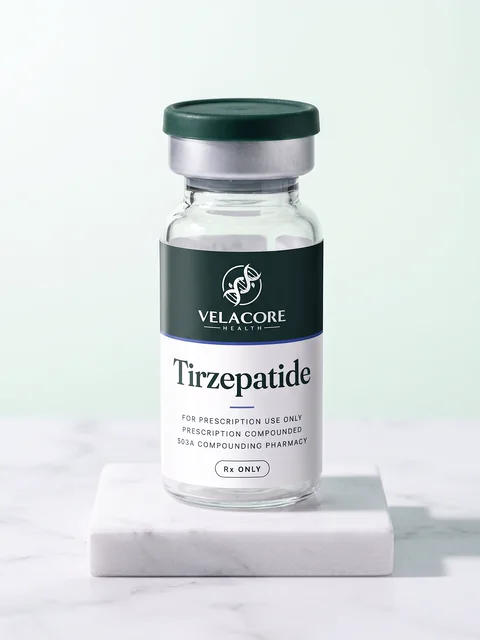
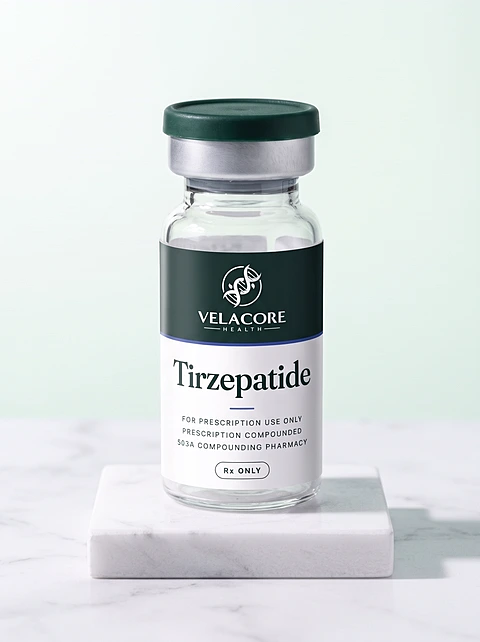
Sharper product photos: rebuilt from the full-size originals with light sharpening, 800 copies served on cards and tiles, cards zoom in on the vial

diff --git a/public/pricing.html b/public/pricing.html
@@ -63,7 +63,7 @@
     <section class="section pr-cards">
       <div class="container">
         <div class="section-head center"><h2>Programs and prices</h2><p class="section-sub">Pay month to month or choose a 12-week plan. A licensed clinician decides whether a program is appropriate for you.</p></div>
-        <div class="tgrid pr-grid"><article class="tcard" id="price-tirzepatide"><div class="tcard-media"><span class="tcard-cat">Weight</span><img class="tcard-photo" src="images/products/tirzepatide.webp" width="1200" height="1600" alt="Velacore Health Tirzepatide vial" loading="lazy" /></div><div class="tcard-body"><h3>Tirzepatide</h3><p class="tcard-mech">Injection, 5 dose levels. Ships every 4 weeks.</p><div class="tcard-meta"><span class="tcard-price">$199 <small>first month, then $279/mo</small></span><span class="tcard-rx">Rx only</span></div><p class="tcard-plan">12-week plan $249/mo, $747 up front.</p><a class="tcard-link" href="programs/tirzepatide.html">What the price includes</a><a href="start/tirzepatide.html" class="btn btn-primary btn-block btn-sm" data-start="tirzepatide">Start visit</a></div></article><article class="tcard" id="price-semaglutide"><div class="tcard-media"><span class="tcard-cat">Weight</span><img class="tcard-photo" src="images/products/semaglutide.webp" width="1200" height="1600" alt="Velacore Health Semaglutide vial" loading="lazy" /></div><div class="tcard-body"><h3>Semaglutide</h3><p class="tcard-mech">Injection or oral. Ships every 4 weeks.</p><div class="tcard-meta"><span class="tcard-price">$149 <small>first month, then $229/mo, injection</small></span><span class="tcard-rx">Rx only</span></div><p class="tcard-plan">12-week plan $199/mo, $597 up front. Oral form $259/mo.</p><a class="tcard-link" href="programs/semaglutide.html">What the price includes</a><a href="start/semaglutide.html" class="btn btn-primary btn-block btn-sm" data-start="semaglutide">Start visit</a></div></article><article class="tcard" id="price-microdosing"><div class="tcard-media"><span class="tcard-cat">Weight, entry tier</span><img class="tcard-photo" src="images/products/microdosing.webp" width="1200" height="1600" alt="Velacore Health Microdosing GLP-1 vial" loading="lazy" /></div><div class="tcard-body"><h3>Microdosing GLP-1</h3><p class="tcard-mech">Oral or injection, 7 formulations. Ships every 4 weeks.</p><div class="tcard-meta"><span class="tcard-price">$129 <small>first month, then $179/mo</small></span><span class="tcard-rx">Rx only</span></div><p class="tcard-plan">12-week plan $159/mo, $477 up front.</p><a class="tcard-link" href="programs/microdosing.html">What the price includes</a><a href="start/microdosing.html" class="btn btn-primary btn-block btn-sm" data-start="microdosing">Start visit</a></div></article><article class="tcard" id="price-nad"><div class="tcard-media"><span class="tcard-cat">Vitality</span><img class="tcard-photo" src="images/products/nad.webp" width="1200" height="1600" alt="Velacore Health NAD+ vial" loading="lazy" /></div><div class="tcard-body"><h3>NAD+</h3><p class="tcard-mech">Injection, nasal or oral. Ships every 4 weeks.</p><div class="tcard-meta"><span class="tcard-price">$129 <small>first month, then $199/mo</small></span><span class="tcard-rx">Rx only</span></div><p class="tcard-plan">12-week plan $169/mo, $507 up front.</p><a class="tcard-link" href="programs/nad.html">What the price includes</a><a href="start/nad.html" class="btn btn-primary btn-block btn-sm" data-start="nad">Start visit</a></div></article><article class="tcard" id="price-glutathione"><div class="tcard-media"><span class="tcard-cat">Vitality</span><img class="tcard-photo" src="images/products/glutathione.webp" width="1200" height="1600" alt="Velacore Health Glutathione vial" loading="lazy" /></div><div class="tcard-body"><h3>Glutathione</h3><p class="tcard-mech">Form set by your clinician. Ships every 4 weeks.</p><div class="tcard-meta"><span class="tcard-price">$129 <small>first month, then $199/mo</small></span><span class="tcard-rx">Rx only</span></div><p class="tcard-plan">12-week plan $169/mo, $507 up front.</p><a class="tcard-link" href="programs/glutathione.html">What the price includes</a><a href="start/glutathione.html" class="btn btn-primary btn-block btn-sm" data-start="glutathione">Start visit</a></div></article><article class="tcard" id="price-sermorelin"><div class="tcard-media"><span class="tcard-cat">Hormone support</span><img class="tcard-photo" src="images/products/sermorelin.webp" width="1200" height="1600" alt="Velacore Health Sermorelin vial" loading="lazy" /></div><div class="tcard-body"><h3>Sermorelin</h3><p class="tcard-mech">Injection. Ships every 4 weeks.</p><div class="tcard-meta"><span class="tcard-price">$129 <small>first month, then $199/mo</small></span><span class="tcard-rx">Rx only</span></div><p class="tcard-plan">12-week plan $169/mo, $507 up front.</p><a class="tcard-link" href="programs/sermorelin.html">What the price includes</a><a href="start/sermorelin.html" class="btn btn-primary btn-block btn-sm" data-start="sermorelin">Start visit</a></div></article></div>
+        <div class="tgrid pr-grid"><article class="tcard" id="price-tirzepatide"><div class="tcard-media"><span class="tcard-cat">Weight</span><img class="tcard-photo" src="images/products/tirzepatide.webp" srcset="images/products/tirzepatide-800.webp 800w, images/products/tirzepatide.webp 1200w" sizes="(max-width:700px) 92vw, 380px" width="1200" height="1600" alt="Velacore Health Tirzepatide vial" loading="lazy" /></div><div class="tcard-body"><h3>Tirzepatide</h3><p class="tcard-mech">Injection, 5 dose levels. Ships every 4 weeks.</p><div class="tcard-meta"><span class="tcard-price">$199 <small>first month, then $279/mo</small></span><span class="tcard-rx">Rx only</span></div><p class="tcard-plan">12-week plan $249/mo, $747 up front.</p><a class="tcard-link" href="programs/tirzepatide.html">What the price includes</a><a href="start/tirzepatide.html" class="btn btn-primary btn-block btn-sm" data-start="tirzepatide">Start visit</a></div></article><article class="tcard" id="price-semaglutide"><div class="tcard-media"><span class="tcard-cat">Weight</span><img class="tcard-photo" src="images/products/semaglutide.webp" srcset="images/products/semaglutide-800.webp 800w, images/products/semaglutide.webp 1200w" sizes="(max-width:700px) 92vw, 380px" width="1200" height="1600" alt="Velacore Health Semaglutide vial" loading="lazy" /></div><div class="tcard-body"><h3>Semaglutide</h3><p class="tcard-mech">Injection or oral. Ships every 4 weeks.</p><div class="tcard-meta"><span class="tcard-price">$149 <small>first month, then $229/mo, injection</small></span><span class="tcard-rx">Rx only</span></div><p class="tcard-plan">12-week plan $199/mo, $597 up front. Oral form $259/mo.</p><a class="tcard-link" href="programs/semaglutide.html">What the price includes</a><a href="start/semaglutide.html" class="btn btn-primary btn-block btn-sm" data-start="semaglutide">Start visit</a></div></article><article class="tcard" id="price-microdosing"><div class="tcard-media"><span class="tcard-cat">Weight, entry tier</span><img class="tcard-photo" src="images/products/microdosing.webp" srcset="images/products/microdosing-800.webp 800w, images/products/microdosing.webp 1200w" sizes="(max-width:700px) 92vw, 380px" width="1200" height="1600" alt="Velacore Health Microdosing GLP-1 vial" loading="lazy" /></div><div class="tcard-body"><h3>Microdosing GLP-1</h3><p class="tcard-mech">Oral or injection, 7 formulations. Ships every 4 weeks.</p><div class="tcard-meta"><span class="tcard-price">$129 <small>first month, then $179/mo</small></span><span class="tcard-rx">Rx only</span></div><p class="tcard-plan">12-week plan $159/mo, $477 up front.</p><a class="tcard-link" href="programs/microdosing.html">What the price includes</a><a href="start/microdosing.html" class="btn btn-primary btn-block btn-sm" data-start="microdosing">Start visit</a></div></article><article class="tcard" id="price-nad"><div class="tcard-media"><span class="tcard-cat">Vitality</span><img class="tcard-photo" src="images/products/nad.webp" srcset="images/products/nad-800.webp 800w, images/products/nad.webp 1200w" sizes="(max-width:700px) 92vw, 380px" width="1200" height="1600" alt="Velacore Health NAD+ vial" loading="lazy" /></div><div class="tcard-body"><h3>NAD+</h3><p class="tcard-mech">Injection, nasal or oral. Ships every 4 weeks.</p><div class="tcard-meta"><span class="tcard-price">$129 <small>first month, then $199/mo</small></span><span class="tcard-rx">Rx only</span></div><p class="tcard-plan">12-week plan $169/mo, $507 up front.</p><a class="tcard-link" href="programs/nad.html">What the price includes</a><a href="start/nad.html" class="btn btn-primary btn-block btn-sm" data-start="nad">Start visit</a></div></article><article class="tcard" id="price-glutathione"><div class="tcard-media"><span class="tcard-cat">Vitality</span><img class="tcard-photo" src="images/products/glutathione.webp" srcset="images/products/glutathione-800.webp 800w, images/products/glutathione.webp 1200w" sizes="(max-width:700px) 92vw, 380px" width="1200" height="1600" alt="Velacore Health Glutathione vial" loading="lazy" /></div><div class="tcard-body"><h3>Glutathione</h3><p class="tcard-mech">Form set by your clinician. Ships every 4 weeks.</p><div class="tcard-meta"><span class="tcard-price">$129 <small>first month, then $199/mo</small></span><span class="tcard-rx">Rx only</span></div><p class="tcard-plan">12-week plan $169/mo, $507 up front.</p><a class="tcard-link" href="programs/glutathione.html">What the price includes</a><a href="start/glutathione.html" class="btn btn-primary btn-block btn-sm" data-start="glutathione">Start visit</a></div></article><article class="tcard" id="price-sermorelin"><div class="tcard-media"><span class="tcard-cat">Hormone support</span><img class="tcard-photo" src="images/products/sermorelin.webp" srcset="images/products/sermorelin-800.webp 800w, images/products/sermorelin.webp 1200w" sizes="(max-width:700px) 92vw, 380px" width="1200" height="1600" alt="Velacore Health Sermorelin vial" loading="lazy" /></div><div class="tcard-body"><h3>Sermorelin</h3><p class="tcard-mech">Injection. Ships every 4 weeks.</p><div class="tcard-meta"><span class="tcard-price">$129 <small>first month, then $199/mo</small></span><span class="tcard-rx">Rx only</span></div><p class="tcard-plan">12-week plan $169/mo, $507 up front.</p><a class="tcard-link" href="programs/sermorelin.html">What the price includes</a><a href="start/sermorelin.html" class="btn btn-primary btn-block btn-sm" data-start="sermorelin">Start visit</a></div></article></div>
         <p class="treat-note">The prices shown are illustrative until our telehealth services partner's final price list is confirmed. Every program is prescription only, and the clinician decides whether a program is appropriate for you. Compounded medications are not FDA approved and are not reviewed by the FDA for safety or efficacy. Product images are illustrations. Your medication is prepared and labeled by a licensed 503A pharmacy and may look different.</p>
       </div>
     </section>

diff --git a/public/index.html b/public/index.html
@@ -198,7 +198,7 @@
         <div class="prow-track" id="tgrid" role="group" tabindex="0" aria-label="Programs, scroll sideways for more">
           <!-- Tirzepatide -->
           <article class="tcard" data-cat="weight">
-            <div class="tcard-media"><span class="tcard-cat">Weight</span><img class="tcard-photo" src="images/products/tirzepatide.webp" width="1200" height="1600" alt="Velacore Health Tirzepatide vial" loading="eager" /></div>
+            <div class="tcard-media"><span class="tcard-cat">Weight</span><img class="tcard-photo" src="images/products/tirzepatide.webp" srcset="images/products/tirzepatide-800.webp 800w, images/products/tirzepatide.webp 1200w" sizes="(max-width:700px) 80vw, 300px" width="1200" height="1600" alt="Velacore Health Tirzepatide vial" loading="eager" /></div>
             <div class="tcard-body">
               <h3>Tirzepatide</h3>
               <p class="tcard-mech">Dual GIP / GLP-1 receptor agonist. Injection, 5 dose levels. Ships every 4 weeks.</p>
@@ -214,7 +214,7 @@
 
           <!-- Semaglutide -->
           <article class="tcard" data-cat="weight">
-            <div class="tcard-media"><span class="tcard-cat">Weight</span><img class="tcard-photo" src="images/products/semaglutide.webp" width="1200" height="1600" alt="Velacore Health Semaglutide vial" loading="eager" /></div>
+            <div class="tcard-media"><span class="tcard-cat">Weight</span><img class="tcard-photo" src="images/products/semaglutide.webp" srcset="images/products/semaglutide-800.webp 800w, images/products/semaglutide.webp 1200w" sizes="(max-width:700px) 80vw, 300px" width="1200" height="1600" alt="Velacore Health Semaglutide vial" loading="eager" /></div>
             <div class="tcard-body">
               <h3>Semaglutide</h3>
               <p class="tcard-mech">GLP-1 receptor agonist. Injection, 5 dose levels, or an oral form. Ships every 4 weeks.</p>
@@ -230,7 +230,7 @@
 
           <!-- Microdosing GLP-1 -->
           <article class="tcard" data-cat="weight">
-            <div class="tcard-media"><span class="tcard-cat">Weight, entry tier</span><img class="tcard-photo" src="images/products/microdosing.webp" width="1200" height="1600" alt="Velacore Health Microdosing GLP-1 vial" loading="lazy" />
+            <div class="tcard-media"><span class="tcard-cat">Weight, entry tier</span><img class="tcard-photo" src="images/products/microdosing.webp" srcset="images/products/microdosing-800.webp 800w, images/products/microdosing.webp 1200w" sizes="(max-width:700px) 80vw, 300px" width="1200" height="1600" alt="Velacore Health Microdosing GLP-1 vial" loading="lazy" />
             </div>
             <div class="tcard-body">
               <h3>Microdosing GLP-1</h3>
@@ -247,7 +247,7 @@
 
           <!-- NAD+ -->
           <article class="tcard" data-cat="vitality">
-            <div class="tcard-media"><span class="tcard-cat">Vitality</span><img class="tcard-photo" src="images/products/nad.webp" width="1200" height="1600" alt="Velacore Health NAD+ vial" loading="lazy" /></div>
+            <div class="tcard-media"><span class="tcard-cat">Vitality</span><img class="tcard-photo" src="images/products/nad.webp" srcset="images/products/nad-800.webp 800w, images/products/nad.webp 1200w" sizes="(max-width:700px) 80vw, 300px" width="1200" height="1600" alt="Velacore Health NAD+ vial" loading="lazy" /></div>
             <div class="tcard-body">
               <h3>NAD+</h3>
               <p class="tcard-mech">NAD+ as an injection, nasal spray or oral dropper. Ships every 4 weeks.</p>
@@ -263,7 +263,7 @@
 
           <!-- Glutathione -->
           <article class="tcard" data-cat="vitality">
-            <div class="tcard-media"><span class="tcard-cat">Vitality</span><img class="tcard-photo" src="images/products/glutathione.webp" width="1200" height="1600" alt="Velacore Health Glutathione vial" loading="lazy" /></div>
+            <div class="tcard-media"><span class="tcard-cat">Vitality</span><img class="tcard-photo" src="images/products/glutathione.webp" srcset="images/products/glutathione-800.webp 800w, images/products/glutathione.webp 1200w" sizes="(max-width:700px) 80vw, 300px" width="1200" height="1600" alt="Velacore Health Glutathione vial" loading="lazy" /></div>
             <div class="tcard-body">
               <h3>Glutathione</h3>
               <p class="tcard-mech">Glutathione in the form your clinician prescribes. Ships every 4 weeks.</p>
@@ -279,7 +279,7 @@
 
           <!-- Sermorelin -->
           <article class="tcard" data-cat="hormone">
-            <div class="tcard-media"><span class="tcard-cat">Hormone support</span><img class="tcard-photo" src="images/products/sermorelin.webp" width="1200" height="1600" alt="Velacore Health Sermorelin vial" loading="lazy" /></div>
+            <div class="tcard-media"><span class="tcard-cat">Hormone support</span><img class="tcard-photo" src="images/products/sermorelin.webp" srcset="images/products/sermorelin-800.webp 800w, images/products/sermorelin.webp 1200w" sizes="(max-width:700px) 80vw, 300px" width="1200" height="1600" alt="Velacore Health Sermorelin vial" loading="lazy" /></div>
             <div class="tcard-body">
               <h3>Sermorelin</h3>
               <p class="tcard-mech">Growth hormone-releasing hormone analog. Injection. Ships every 4 weeks.</p>
@@ -327,10 +327,10 @@
             <p class="section-sub">Three programs come in forms without one. Your clinician decides the program, the form and the dose from your intake. Product images are illustrations; your medication is prepared and labeled by a licensed 503A pharmacy and may look different.</p>
           </div>
           <ul class="form-tiles form-tiles-links">
-            <li data-oral="semaglutide"><a href="programs/semaglutide.html#forms"><img src="images/products/semaglutide-oral.webp" width="1200" height="1600" alt="Velacore Health Semaglutide, oral form" loading="lazy" /><div><b>Semaglutide oral</b><p>Taken by mouth daily. No needle. $259 a month.</p></div></a></li>
-            <li><a href="programs/nad.html#forms"><img src="images/products/nad-nasal.webp" width="1200" height="1600" alt="Velacore Health NAD+ nasal spray" loading="lazy" /><div><b>NAD+ nasal spray</b><p>A nasal spray. No needle. $129 first month.</p></div></a></li>
-            <li><a href="programs/nad.html#forms"><img src="images/products/nad-oral.webp" width="1200" height="1600" alt="Velacore Health NAD+ oral dropper" loading="lazy" /><div><b>NAD+ oral dropper</b><p>Drops taken by mouth. No needle. $129 first month.</p></div></a></li>
-            <li><a href="programs/microdosing.html"><img src="images/products/microdosing-oral.webp" width="1200" height="1600" alt="Velacore Health Microdosing GLP-1, oral form" loading="lazy" /><div><b>Microdosing GLP-1</b><p>Oral or injection, 7 formulations. The clinician picks the form. $129 first month.</p></div></a></li>
+            <li data-oral="semaglutide"><a href="programs/semaglutide.html#forms"><img src="images/products/semaglutide-oral.webp" srcset="images/products/semaglutide-oral-800.webp 800w, images/products/semaglutide-oral.webp 1200w" sizes="(max-width:700px) 45vw, 300px" width="1200" height="1600" alt="Velacore Health Semaglutide, oral form" loading="lazy" /><div><b>Semaglutide oral</b><p>Taken by mouth daily. No needle. $259 a month.</p></div></a></li>
+            <li><a href="programs/nad.html#forms"><img src="images/products/nad-nasal.webp" srcset="images/products/nad-nasal-800.webp 800w, images/products/nad-nasal.webp 1200w" sizes="(max-width:700px) 45vw, 300px" width="1200" height="1600" alt="Velacore Health NAD+ nasal spray" loading="lazy" /><div><b>NAD+ nasal spray</b><p>A nasal spray. No needle. $129 first month.</p></div></a></li>
+            <li><a href="programs/nad.html#forms"><img src="images/products/nad-oral.webp" srcset="images/products/nad-oral-800.webp 800w, images/products/nad-oral.webp 1200w" sizes="(max-width:700px) 45vw, 300px" width="1200" height="1600" alt="Velacore Health NAD+ oral dropper" loading="lazy" /><div><b>NAD+ oral dropper</b><p>Drops taken by mouth. No needle. $129 first month.</p></div></a></li>
+            <li><a href="programs/microdosing.html"><img src="images/products/microdosing-oral.webp" srcset="images/products/microdosing-oral-800.webp 800w, images/products/microdosing-oral.webp 1200w" sizes="(max-width:700px) 45vw, 300px" width="1200" height="1600" alt="Velacore Health Microdosing GLP-1, oral form" loading="lazy" /><div><b>Microdosing GLP-1</b><p>Oral or injection, 7 formulations. The clinician picks the form. $129 first month.</p></div></a></li>
           </ul>
           <div class="blk-actions"><a href="programs/semaglutide.html#forms" class="btn btn-primary">See Semaglutide oral</a><a href="programs/nad.html#forms" class="btn btn-ghost">See the NAD+ forms</a></div>
         </div>

diff --git a/public/programs/nad.html b/public/programs/nad.html
@@ -71,7 +71,7 @@
             <ul class="facts"><li><span class="check">✓</span> Injection, nasal spray or oral dropper</li><li><span class="check">✓</span> 50 mg to 200 mg per dose, set by your clinician</li><li><span class="check">✓</span> Supplies and written instructions included</li><li><span class="check">✓</span> Clinician review at each refill</li><li><span class="check">✓</span> Video visit on request, at no extra cost</li><li><span class="check">✓</span> Patient support 24 hours a day</li></ul>
           </div>
           <div class="prog-side">
-            <div class="tcard prog-media"><div class="tcard-media"><img class="tcard-photo" src="../images/products/nad.webp" width="1200" height="1600" alt="Velacore Health NAD+" fetchpriority="high" /></div></div>
+            <div class="tcard prog-media"><div class="tcard-media"><img class="tcard-photo" src="../images/products/nad.webp" srcset="../images/products/nad-800.webp 800w, ../images/products/nad.webp 1200w" sizes="(max-width:900px) 92vw, 560px" width="1200" height="1600" alt="Velacore Health NAD+" fetchpriority="high" /></div></div>
             <p class="img-note">Illustrative image. Your medication is prepared and labeled by a licensed 503A pharmacy and may look different.</p>
             <div class="price-box" id="priceBox">
               <div class="price-top">
@@ -114,7 +114,7 @@
             <h2>Three forms, one program</h2>
             <p class="section-sub">Your clinician decides the form and the dose from your intake. Product images are illustrations; your medication is prepared and labeled by a licensed 503A pharmacy and may look different.</p>
           </div>
-          <ul class="form-tiles form-tiles-3"><li><img src="../images/products/nad.webp" width="1200" height="1600" alt="Velacore Health NAD+ injection" loading="lazy" /><div><b>Injection</b><p>A small self-injection under the skin. Supplies included.</p></div></li><li><img src="../images/products/nad-nasal.webp" width="1200" height="1600" alt="Velacore Health NAD+ nasal spray" loading="lazy" /><div><b>Nasal spray</b><p>A nasal spray. No needle.</p></div></li><li><img src="../images/products/nad-oral.webp" width="1200" height="1600" alt="Velacore Health NAD+ oral dropper" loading="lazy" /><div><b>Oral dropper</b><p>Drops taken by mouth. No needle.</p></div></li></ul>
+          <ul class="form-tiles form-tiles-3"><li><img src="../images/products/nad.webp" srcset="../images/products/nad-800.webp 800w, ../images/products/nad.webp 1200w" sizes="(max-width:700px) 45vw, 300px" width="1200" height="1600" alt="Velacore Health NAD+ injection" loading="lazy" /><div><b>Injection</b><p>A small self-injection under the skin. Supplies included.</p></div></li><li><img src="../images/products/nad-nasal.webp" srcset="../images/products/nad-nasal-800.webp 800w, ../images/products/nad-nasal.webp 1200w" sizes="(max-width:700px) 45vw, 300px" width="1200" height="1600" alt="Velacore Health NAD+ nasal spray" loading="lazy" /><div><b>Nasal spray</b><p>A nasal spray. No needle.</p></div></li><li><img src="../images/products/nad-oral.webp" srcset="../images/products/nad-oral-800.webp 800w, ../images/products/nad-oral.webp 1200w" sizes="(max-width:700px) 45vw, 300px" width="1200" height="1600" alt="Velacore Health NAD+ oral dropper" loading="lazy" /><div><b>Oral dropper</b><p>Drops taken by mouth. No needle.</p></div></li></ul>
         </div>
       </div>
     </section>

diff --git a/public/programs/semaglutide.html b/public/programs/semaglutide.html
@@ -71,7 +71,7 @@
             <ul class="facts"><li><span class="check">✓</span> GLP-1 receptor agonist</li><li><span class="check">✓</span> Injection: five dose levels, 0.8 mg to 8.96 mg per 4 weeks</li><li><span class="check">✓</span> Oral: 5 mg or 10 mg a day</li><li><span class="check">✓</span> Clinician review before every dose change</li><li><span class="check">✓</span> Baseline labs at a national lab, included</li><li><span class="check">✓</span> Optional nausea medication at a local pharmacy, if your clinician prescribes it</li></ul>
           </div>
           <div class="prog-side">
-            <div class="tcard prog-media"><div class="tcard-media"><img class="tcard-photo" src="../images/products/semaglutide.webp" width="1200" height="1600" alt="Velacore Health Semaglutide" fetchpriority="high" /></div></div>
+            <div class="tcard prog-media"><div class="tcard-media"><img class="tcard-photo" src="../images/products/semaglutide.webp" srcset="../images/products/semaglutide-800.webp 800w, ../images/products/semaglutide.webp 1200w" sizes="(max-width:900px) 92vw, 560px" width="1200" height="1600" alt="Velacore Health Semaglutide" fetchpriority="high" /></div></div>
             <p class="img-note">Illustrative image. Your medication is prepared and labeled by a licensed 503A pharmacy and may look different.</p>
             <div class="price-box" id="priceBox">
               <div class="price-top">
@@ -118,7 +118,7 @@
             <h2>Two forms, one program</h2>
             <p class="section-sub">Your clinician decides the form and the dose from your intake. Product images are illustrations; your medication is prepared and labeled by a licensed 503A pharmacy and may look different.</p>
           </div>
-          <ul class="form-tiles form-tiles-2"><li><img src="../images/products/semaglutide.webp" width="1200" height="1600" alt="Velacore Health Semaglutide injection" loading="lazy" /><div><b>Injection</b><p>A small self-injection under the skin. Supplies included. $149 first month, then $229 a month.</p></div></li><li><img src="../images/products/semaglutide-oral.webp" width="1200" height="1600" alt="Velacore Health Semaglutide oral" loading="lazy" /><div><b>Oral</b><p>Taken by mouth daily. No needle. $259 a month.</p></div></li></ul>
+          <ul class="form-tiles form-tiles-2"><li><img src="../images/products/semaglutide.webp" srcset="../images/products/semaglutide-800.webp 800w, ../images/products/semaglutide.webp 1200w" sizes="(max-width:700px) 45vw, 300px" width="1200" height="1600" alt="Velacore Health Semaglutide injection" loading="lazy" /><div><b>Injection</b><p>A small self-injection under the skin. Supplies included. $149 first month, then $229 a month.</p></div></li><li><img src="../images/products/semaglutide-oral.webp" srcset="../images/products/semaglutide-oral-800.webp 800w, ../images/products/semaglutide-oral.webp 1200w" sizes="(max-width:700px) 45vw, 300px" width="1200" height="1600" alt="Velacore Health Semaglutide oral" loading="lazy" /><div><b>Oral</b><p>Taken by mouth daily. No needle. $259 a month.</p></div></li></ul>
         </div>
       </div>
     </section>

diff --git a/public/programs/tirzepatide.html b/public/programs/tirzepatide.html
@@ -71,7 +71,7 @@
             <ul class="facts"><li><span class="check">✓</span> Dual GIP and GLP-1 receptor agonist</li><li><span class="check">✓</span> Five dose levels, 8.5 mg to 44.5 mg per 4-week cycle</li><li><span class="check">✓</span> Injection supplies and written instructions included</li><li><span class="check">✓</span> Clinician review before every dose change</li><li><span class="check">✓</span> Baseline labs at a national lab, included</li><li><span class="check">✓</span> Optional nausea medication at a local pharmacy, if your clinician prescribes it</li></ul>
           </div>
           <div class="prog-side">
-            <div class="tcard prog-media"><div class="tcard-media"><img class="tcard-photo" src="../images/products/tirzepatide.webp" width="1200" height="1600" alt="Velacore Health Tirzepatide" fetchpriority="high" /></div></div>
+            <div class="tcard prog-media"><div class="tcard-media"><img class="tcard-photo" src="../images/products/tirzepatide.webp" srcset="../images/products/tirzepatide-800.webp 800w, ../images/products/tirzepatide.webp 1200w" sizes="(max-width:900px) 92vw, 560px" width="1200" height="1600" alt="Velacore Health Tirzepatide" fetchpriority="high" /></div></div>
             <p class="img-note">Illustrative image. Your medication is prepared and labeled by a licensed 503A pharmacy and may look different.</p>
             <div class="price-box" id="priceBox">
               <div class="price-top">

diff --git a/public/programs/microdosing.html b/public/programs/microdosing.html
@@ -71,7 +71,7 @@
             <ul class="facts"><li><span class="check">✓</span> Low-dose GLP-1 plus vitamins or amino acids</li><li><span class="check">✓</span> Seven formulations, oral or injection</li><li><span class="check">✓</span> Clinician consults, unlimited, at no extra cost</li><li><span class="check">✓</span> Async review on a 12-week cycle, video any time</li><li><span class="check">✓</span> Supplies and written instructions included</li><li><span class="check">✓</span> Patient support 24 hours a day</li></ul>
           </div>
           <div class="prog-side">
-            <div class="tcard prog-media"><div class="tcard-media"><img class="tcard-photo" src="../images/products/microdosing.webp" width="1200" height="1600" alt="Velacore Health Microdosing GLP-1" fetchpriority="high" /></div></div>
+            <div class="tcard prog-media"><div class="tcard-media"><img class="tcard-photo" src="../images/products/microdosing.webp" srcset="../images/products/microdosing-800.webp 800w, ../images/products/microdosing.webp 1200w" sizes="(max-width:900px) 92vw, 560px" width="1200" height="1600" alt="Velacore Health Microdosing GLP-1" fetchpriority="high" /></div></div>
             <p class="img-note">Illustrative image. Your medication is prepared and labeled by a licensed 503A pharmacy and may look different.</p>
             <div class="price-box" id="priceBox">
               <div class="price-top">

diff --git a/public/programs/sermorelin.html b/public/programs/sermorelin.html
@@ -71,7 +71,7 @@
             <ul class="facts"><li><span class="check">✓</span> Growth hormone-releasing hormone analog</li><li><span class="check">✓</span> 500 to 600 mcg per dose, set by your clinician</li><li><span class="check">✓</span> Injection supplies and written instructions included</li><li><span class="check">✓</span> Clinician review at each refill</li><li><span class="check">✓</span> Video visit on request, at no extra cost</li><li><span class="check">✓</span> Patient support 24 hours a day</li></ul>
           </div>
           <div class="prog-side">
-            <div class="tcard prog-media"><div class="tcard-media"><img class="tcard-photo" src="../images/products/sermorelin.webp" width="1200" height="1600" alt="Velacore Health Sermorelin" fetchpriority="high" /></div></div>
+            <div class="tcard prog-media"><div class="tcard-media"><img class="tcard-photo" src="../images/products/sermorelin.webp" srcset="../images/products/sermorelin-800.webp 800w, ../images/products/sermorelin.webp 1200w" sizes="(max-width:900px) 92vw, 560px" width="1200" height="1600" alt="Velacore Health Sermorelin" fetchpriority="high" /></div></div>
             <p class="img-note">Illustrative image. Your medication is prepared and labeled by a licensed 503A pharmacy and may look different.</p>
             <div class="price-box" id="priceBox">
               <div class="price-top">

diff --git a/public/programs/glutathione.html b/public/programs/glutathione.html
@@ -71,7 +71,7 @@
             <ul class="facts"><li><span class="check">✓</span> A peptide of three amino acids</li><li><span class="check">✓</span> Form and dose set by your clinician</li><li><span class="check">✓</span> Written instructions included</li><li><span class="check">✓</span> Clinician review at each refill</li><li><span class="check">✓</span> Video visit on request, at no extra cost</li><li><span class="check">✓</span> Patient support 24 hours a day</li></ul>
           </div>
           <div class="prog-side">
-            <div class="tcard prog-media"><div class="tcard-media"><img class="tcard-photo" src="../images/products/glutathione.webp" width="1200" height="1600" alt="Velacore Health Glutathione" fetchpriority="high" /></div></div>
+            <div class="tcard prog-media"><div class="tcard-media"><img class="tcard-photo" src="../images/products/glutathione.webp" srcset="../images/products/glutathione-800.webp 800w, ../images/products/glutathione.webp 1200w" sizes="(max-width:900px) 92vw, 560px" width="1200" height="1600" alt="Velacore Health Glutathione" fetchpriority="high" /></div></div>
             <p class="img-note">Illustrative image. Your medication is prepared and labeled by a licensed 503A pharmacy and may look different.</p>
             <div class="price-box" id="priceBox">
               <div class="price-top">

diff --git a/public/start/microdosing.html b/public/start/microdosing.html
@@ -34,7 +34,7 @@
         <p class="sp-pending">The online visit for Microdosing GLP-1 opens soon. In the meantime, email <a href="mailto:hello@velacorehealth.com">hello@velacorehealth.com</a> with any questions.</p>
         <p class="price-fine">Prescription required. Starting a visit is not a guarantee of treatment. Compounded medications are not FDA approved and are not reviewed by the FDA for safety or efficacy. Individual results vary. Not appropriate for everyone. Your clinician decides whether this program is appropriate for you.</p>
       </div>
-      <div class="sp-side"><div class="sp-media" aria-hidden="true"><img src="../images/products/microdosing.webp" width="1200" height="1600" alt="" /></div><p class="img-note">Illustrative image. Your medication is prepared and labeled by a licensed 503A pharmacy and may look different.</p></div>
+      <div class="sp-side"><div class="sp-media" aria-hidden="true"><img src="../images/products/microdosing.webp" srcset="../images/products/microdosing-800.webp 800w, ../images/products/microdosing.webp 1200w" sizes="(max-width:700px) 80vw, 400px" width="1200" height="1600" alt="" /></div><p class="img-note">Illustrative image. Your medication is prepared and labeled by a licensed 503A pharmacy and may look different.</p></div>
     </div>
   </main>
   <footer class="site-footer sp-footer">

diff --git a/public/start/glutathione.html b/public/start/glutathione.html
@@ -34,7 +34,7 @@
         <p class="sp-pending">The online visit for Glutathione opens soon. In the meantime, email <a href="mailto:hello@velacorehealth.com">hello@velacorehealth.com</a> with any questions.</p>
         <p class="price-fine">Prescription required. Starting a visit is not a guarantee of treatment. Compounded medications are not FDA approved and are not reviewed by the FDA for safety or efficacy. Individual results vary. Not appropriate for everyone. Your clinician decides whether this program is appropriate for you.</p>
       </div>
-      <div class="sp-side"><div class="sp-media" aria-hidden="true"><img src="../images/products/glutathione.webp" width="1200" height="1600" alt="" /></div><p class="img-note">Illustrative image. Your medication is prepared and labeled by a licensed 503A pharmacy and may look different.</p></div>
+      <div class="sp-side"><div class="sp-media" aria-hidden="true"><img src="../images/products/glutathione.webp" srcset="../images/products/glutathione-800.webp 800w, ../images/products/glutathione.webp 1200w" sizes="(max-width:700px) 80vw, 400px" width="1200" height="1600" alt="" /></div><p class="img-note">Illustrative image. Your medication is prepared and labeled by a licensed 503A pharmacy and may look different.</p></div>
     </div>
   </main>
   <footer class="site-footer sp-footer">

diff --git a/public/start/semaglutide.html b/public/start/semaglutide.html
@@ -34,7 +34,7 @@
         <p class="sp-pending">The online visit for Semaglutide opens soon. In the meantime, email <a href="mailto:hello@velacorehealth.com">hello@velacorehealth.com</a> with any questions.</p>
         <p class="price-fine">Prescription required. Starting a visit is not a guarantee of treatment. Compounded medications are not FDA approved and are not reviewed by the FDA for safety or efficacy. Individual results vary. Not appropriate for everyone. Your clinician decides whether this program is appropriate for you.</p>
       </div>
-      <div class="sp-side"><div class="sp-media" aria-hidden="true"><img src="../images/products/semaglutide.webp" width="1200" height="1600" alt="" /></div><p class="img-note">Illustrative image. Your medication is prepared and labeled by a licensed 503A pharmacy and may look different.</p></div>
+      <div class="sp-side"><div class="sp-media" aria-hidden="true"><img src="../images/products/semaglutide.webp" srcset="../images/products/semaglutide-800.webp 800w, ../images/products/semaglutide.webp 1200w" sizes="(max-width:700px) 80vw, 400px" width="1200" height="1600" alt="" /></div><p class="img-note">Illustrative image. Your medication is prepared and labeled by a licensed 503A pharmacy and may look different.</p></div>
     </div>
   </main>
   <footer class="site-footer sp-footer">

diff --git a/public/start/tirzepatide.html b/public/start/tirzepatide.html
@@ -34,7 +34,7 @@
         <p class="sp-pending">The online visit for Tirzepatide opens soon. In the meantime, email <a href="mailto:hello@velacorehealth.com">hello@velacorehealth.com</a> with any questions.</p>
         <p class="price-fine">Prescription required. Starting a visit is not a guarantee of treatment. Compounded medications are not FDA approved and are not reviewed by the FDA for safety or efficacy. Individual results vary. Not appropriate for everyone. Your clinician decides whether this program is appropriate for you.</p>
       </div>
-      <div class="sp-side"><div class="sp-media" aria-hidden="true"><img src="../images/products/tirzepatide.webp" width="1200" height="1600" alt="" /></div><p class="img-note">Illustrative image. Your medication is prepared and labeled by a licensed 503A pharmacy and may look different.</p></div>
+      <div class="sp-side"><div class="sp-media" aria-hidden="true"><img src="../images/products/tirzepatide.webp" srcset="../images/products/tirzepatide-800.webp 800w, ../images/products/tirzepatide.webp 1200w" sizes="(max-width:700px) 80vw, 400px" width="1200" height="1600" alt="" /></div><p class="img-note">Illustrative image. Your medication is prepared and labeled by a licensed 503A pharmacy and may look different.</p></div>
     </div>
   </main>
   <footer class="site-footer sp-footer">
